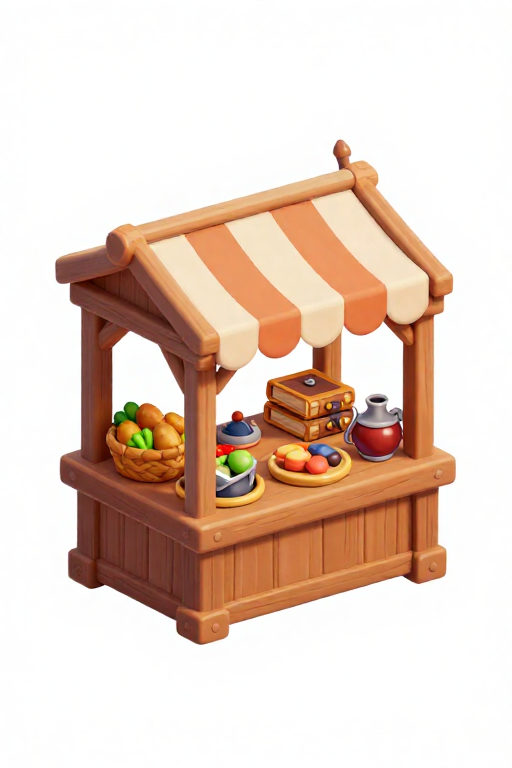
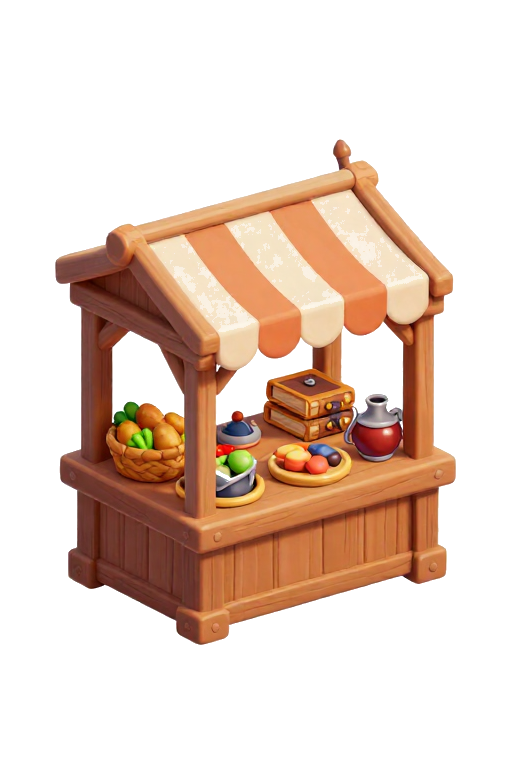
Remove white background from pin images, drop mix-blend-mode hack

diff --git a/index.html b/index.html
@@ -458,7 +458,7 @@ tr.row-rappeler{background:rgba(188,140,255,.06)!important}tr.row-rappeler td:fi
 .map-container{--city-radius:1.2rem;--city-sign-color-back:#00c080;--city-sign-color-font:#fff;--city-pin-size-font:3.6rem;line-height:1}
 .map-city{border-radius:var(--city-radius);left:calc(var(--x)*1% - var(--city-radius));padding:var(--city-radius);position:absolute;top:calc(var(--y)*1% - var(--city-radius));cursor:pointer}
 .map-city::before{content:"\2022";font-size:var(--city-pin-size-font);left:calc(-50% + var(--city-radius));position:absolute;top:calc(-.65em + var(--city-radius));text-align:center;text-shadow:0 1px 1px #000;width:100%;color:#fff}
-.map-city.pin-market::before,.map-city.pin-castle::before,.map-city.pin-village::before{content:"";width:7.2rem;height:7.2rem;left:calc(-50% + var(--city-radius));top:calc(-3.6rem + var(--city-radius));font-size:0;text-shadow:none;background-size:contain;background-repeat:no-repeat;background-position:center;mix-blend-mode:screen;filter:drop-shadow(0 2px 6px rgba(0,0,0,.5))}
+.map-city.pin-market::before,.map-city.pin-castle::before,.map-city.pin-village::before{content:"";width:7.2rem;height:7.2rem;left:calc(-50% + var(--city-radius));top:calc(-3.6rem + var(--city-radius));font-size:0;text-shadow:none;background-size:contain;background-repeat:no-repeat;background-position:center;filter:drop-shadow(0 2px 6px rgba(0,0,0,.5))}
 .map-city.pin-castle::before{background-image:url(assets/game-icons/pin-castle.png)}
 .map-city.pin-market::before{background-image:url(assets/game-icons/pin-market.png)}
 .map-city.pin-village::before{background-image:url(assets/game-icons/pin-village.png)}
